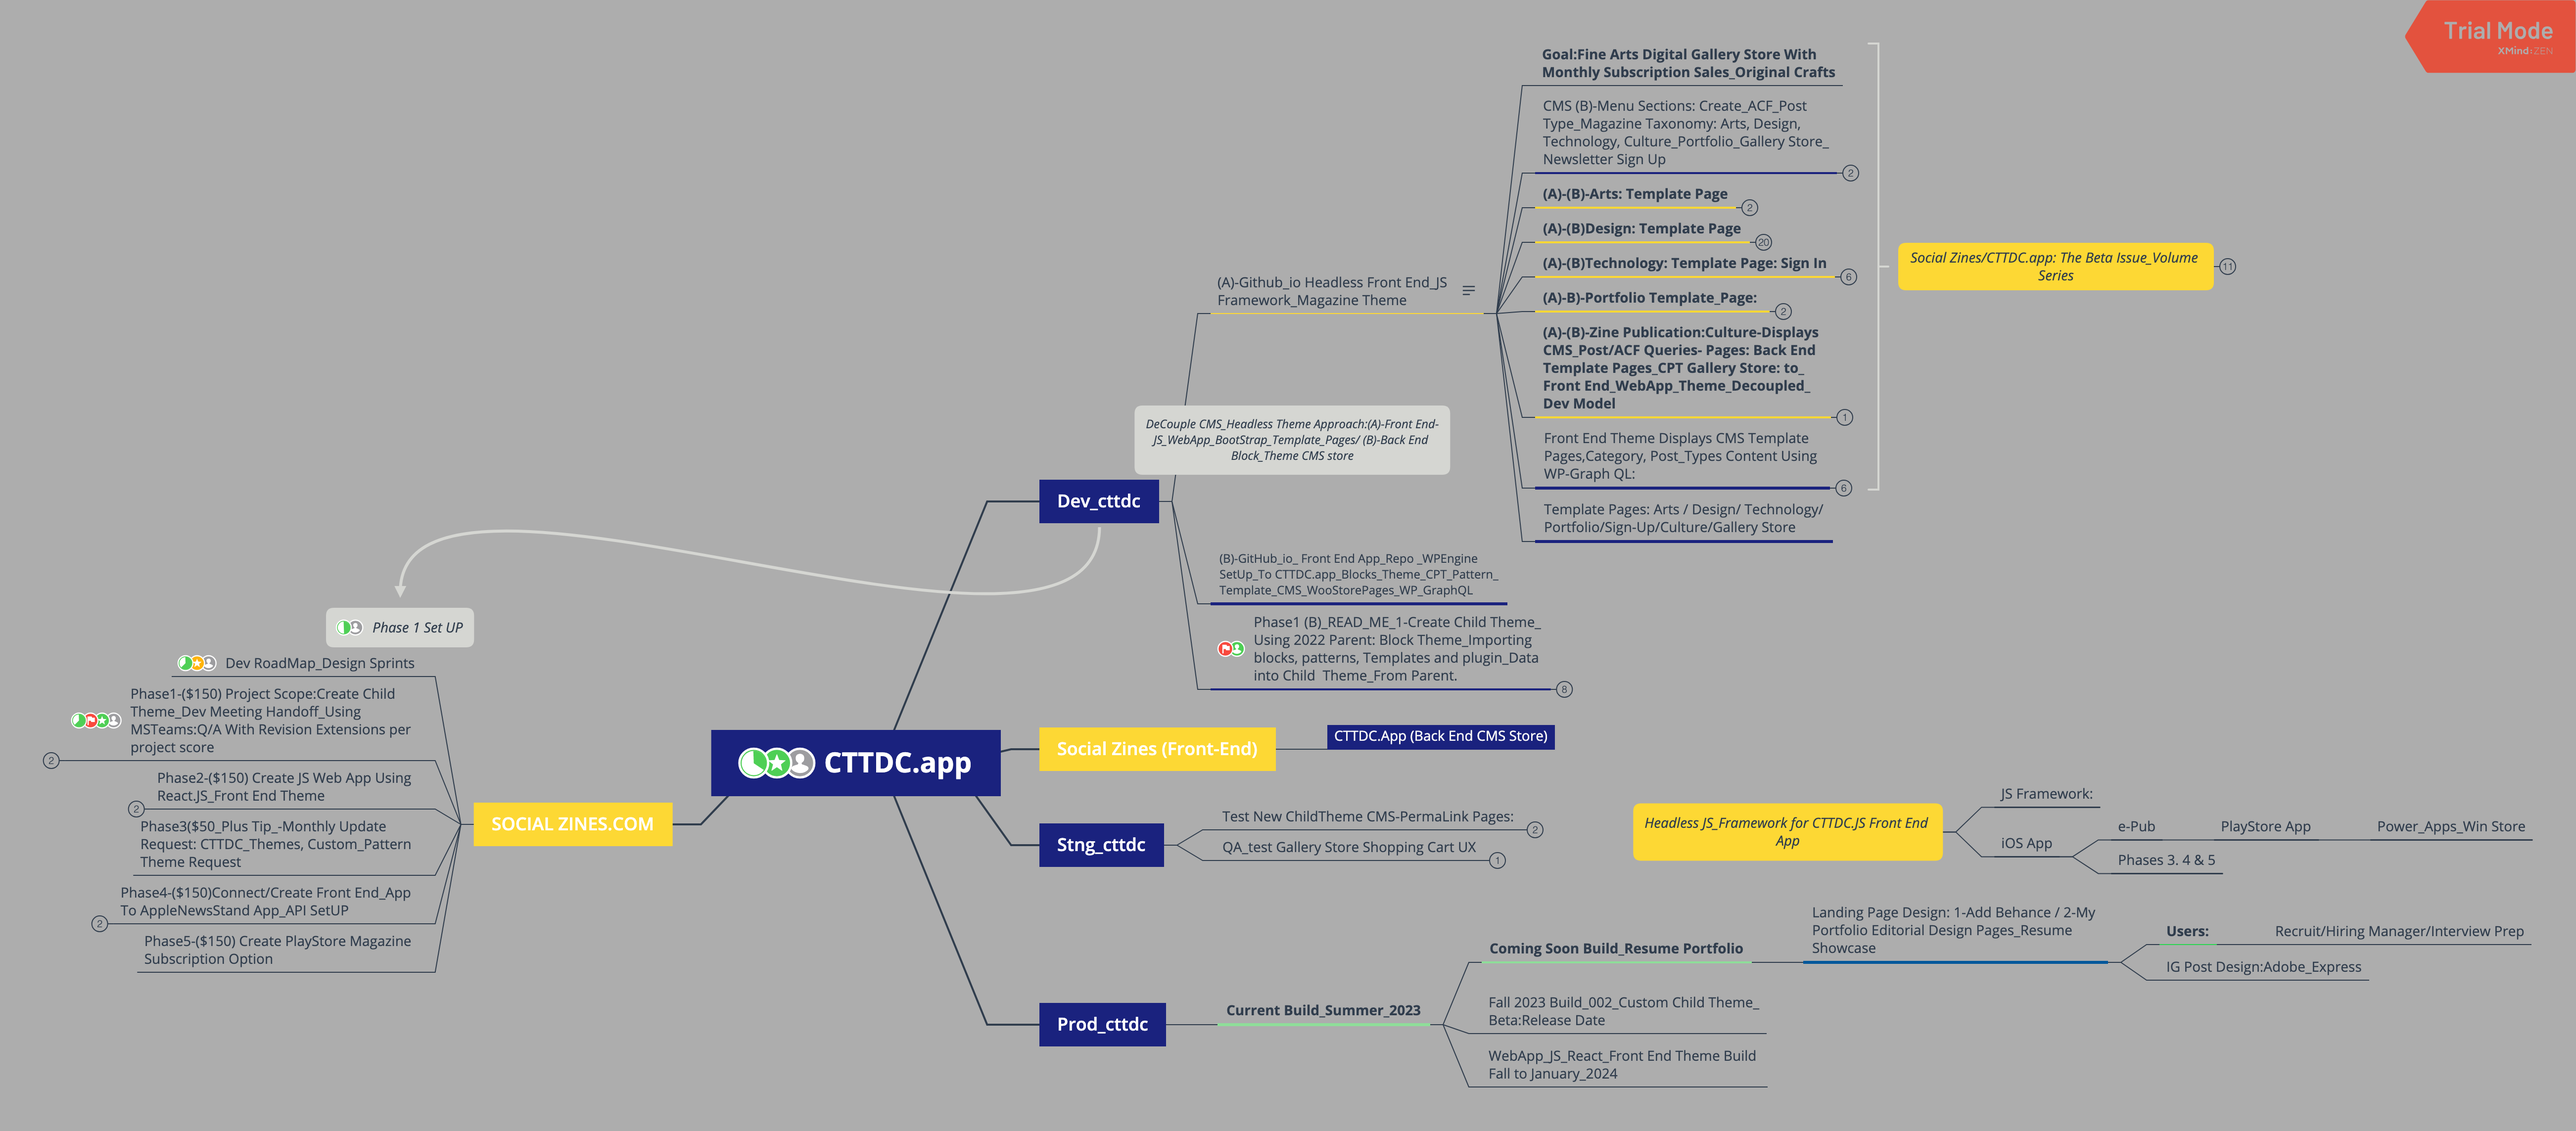
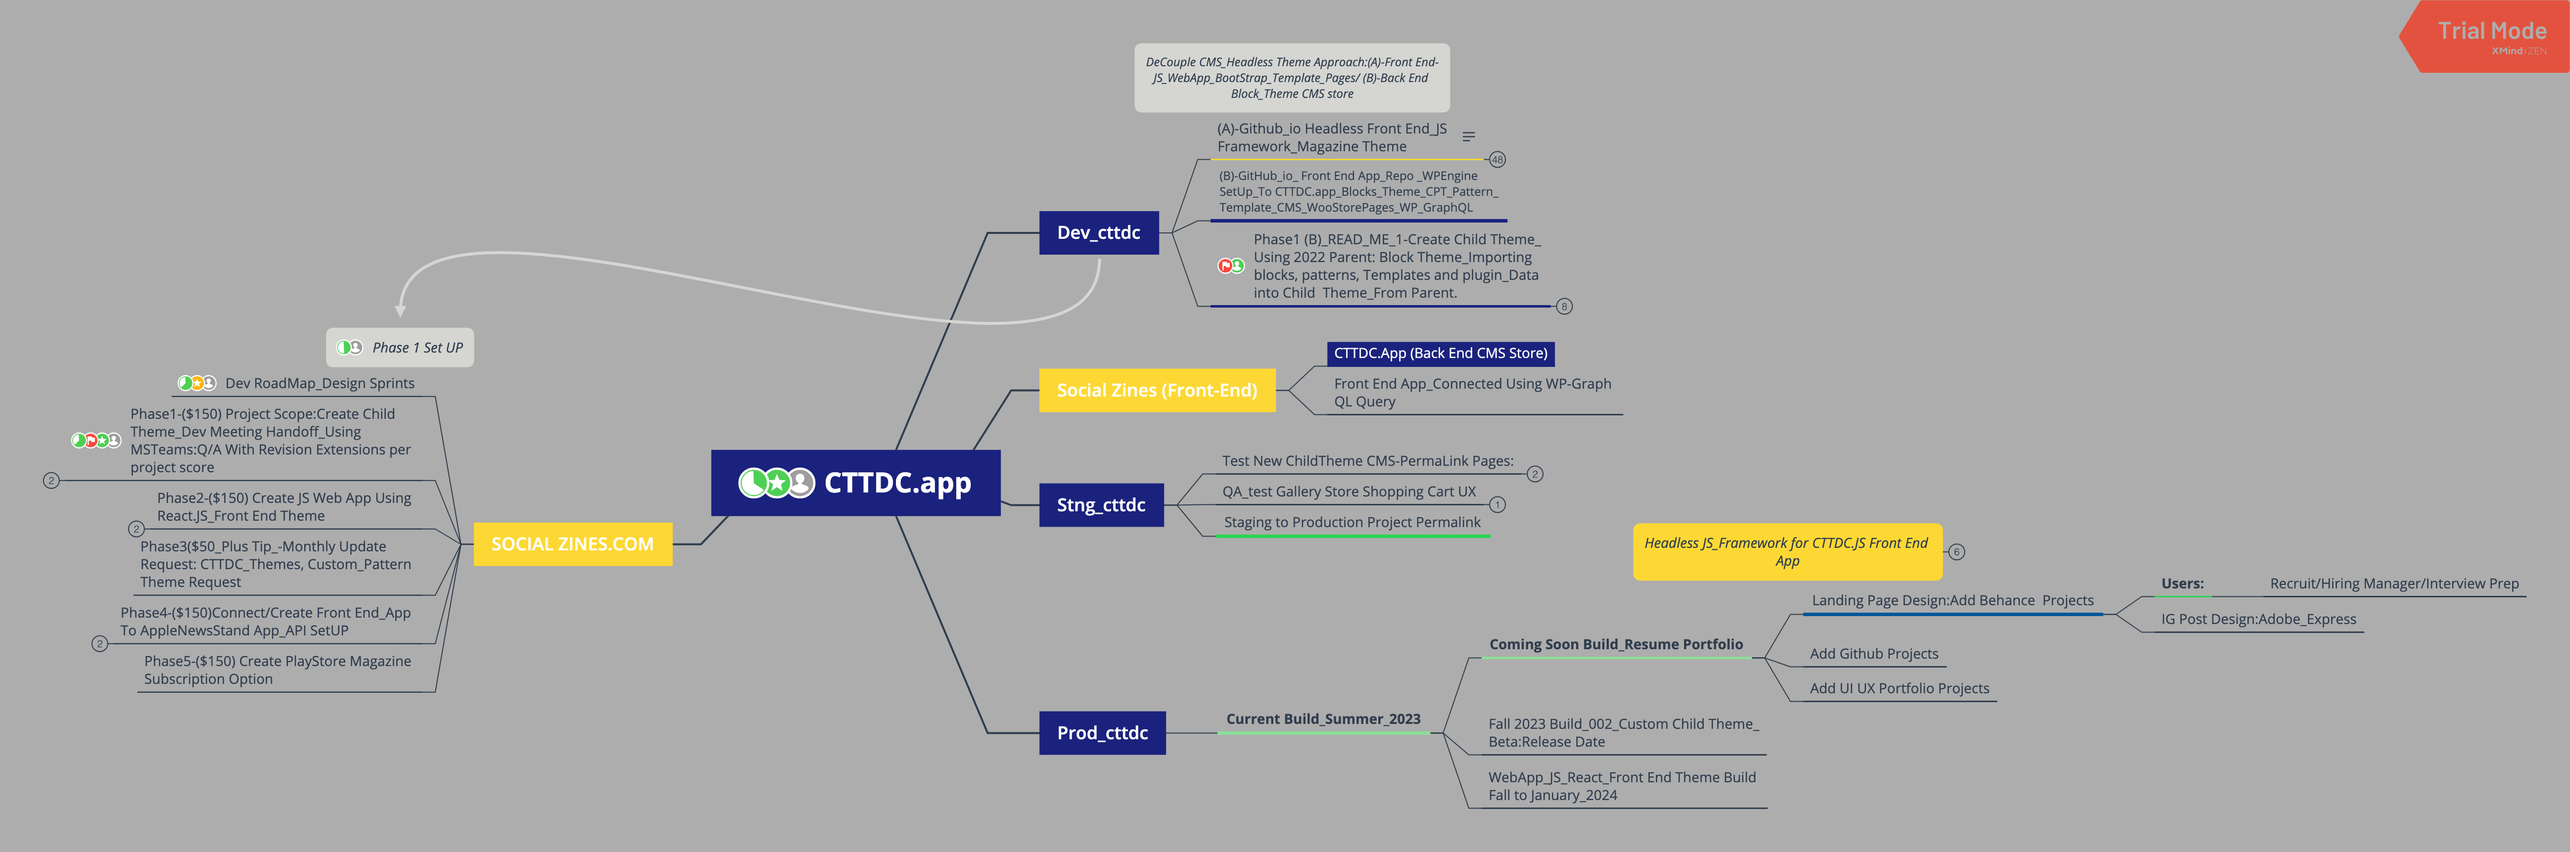
Add files via upload

diff --git a/CTTDC.app_ReadMe_Roadmap.md b/CTTDC.app_ReadMe_Roadmap.md
@@ -6,8 +6,11 @@
 
 To Do:
 (PHASE1)
-Designer: Re-Design Content forStatic Bootstrap Theming  from Github.io Repo
+ReadMe File Doc-Github Repo Updates
+Designer: Re-Design Content for Static Bootstrap Theming  from Github.io 
+Update:Repository
 Designer: Additional Template Pages for CMS Block Theme
+Designer: Match Front-end theme content on CMS
 Developer Handoff To Do: Project Scope: Read Me File
 Developer To Do:Create Child  Block Theme CMS from Github Repo / Read Me File Resources.
 
@@ -117,6 +120,8 @@ Developer To Do:Create Child  Block Theme CMS from Github Repo / Read Me File Re
 
 ### CTTDC.App (Back End CMS Store)
 
+### Front End App_Connected Using WP-Graph QL Query
+
 ## Stng_cttdc
 
 ### Test New ChildTheme CMS-PermaLink Pages:
@@ -128,19 +133,24 @@ Developer To Do:Create Child  Block Theme CMS from Github Repo / Read Me File Re
 
 - Setup DevOps Q/A Deployment Build to Update GitHub Branch_Set Up Atlas WP Account_Update Production Bucket
 
+### Staging to Production Project Permalink
+
 ## Prod_cttdc
 
 ### Current Build_Summer_2023
 
 - Coming Soon Build_Resume Portfolio
 
-	- Landing Page Design: 1-Add Behance / 2-My Portfolio Editorial Design Pages_Resume Showcase
+	- Landing Page Design:Add Behance  Projects
 
 		- Users:
 
 			- Recruit/Hiring Manager/Interview Prep
 
 		- IG Post Design:Adobe_Express
+
+	- Add Github Projects
+	- Add UI UX Portfolio Projects
 
 - Fall 2023 Build_002_Custom Child Theme_Beta:Release Date
 - WebApp_JS_React_Front End Theme Build Fall to January_2024
